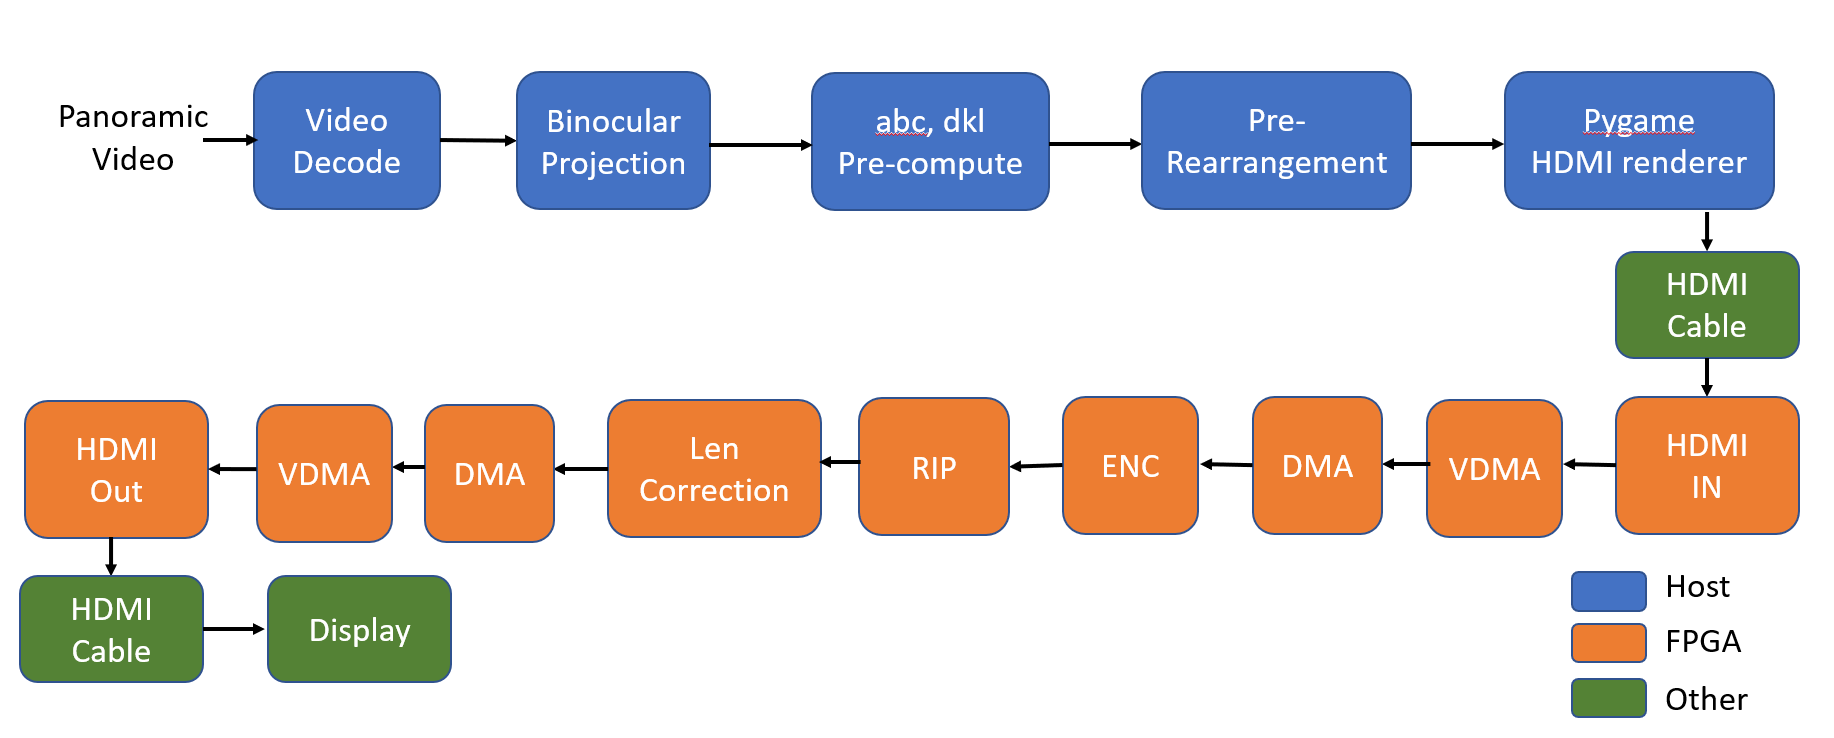
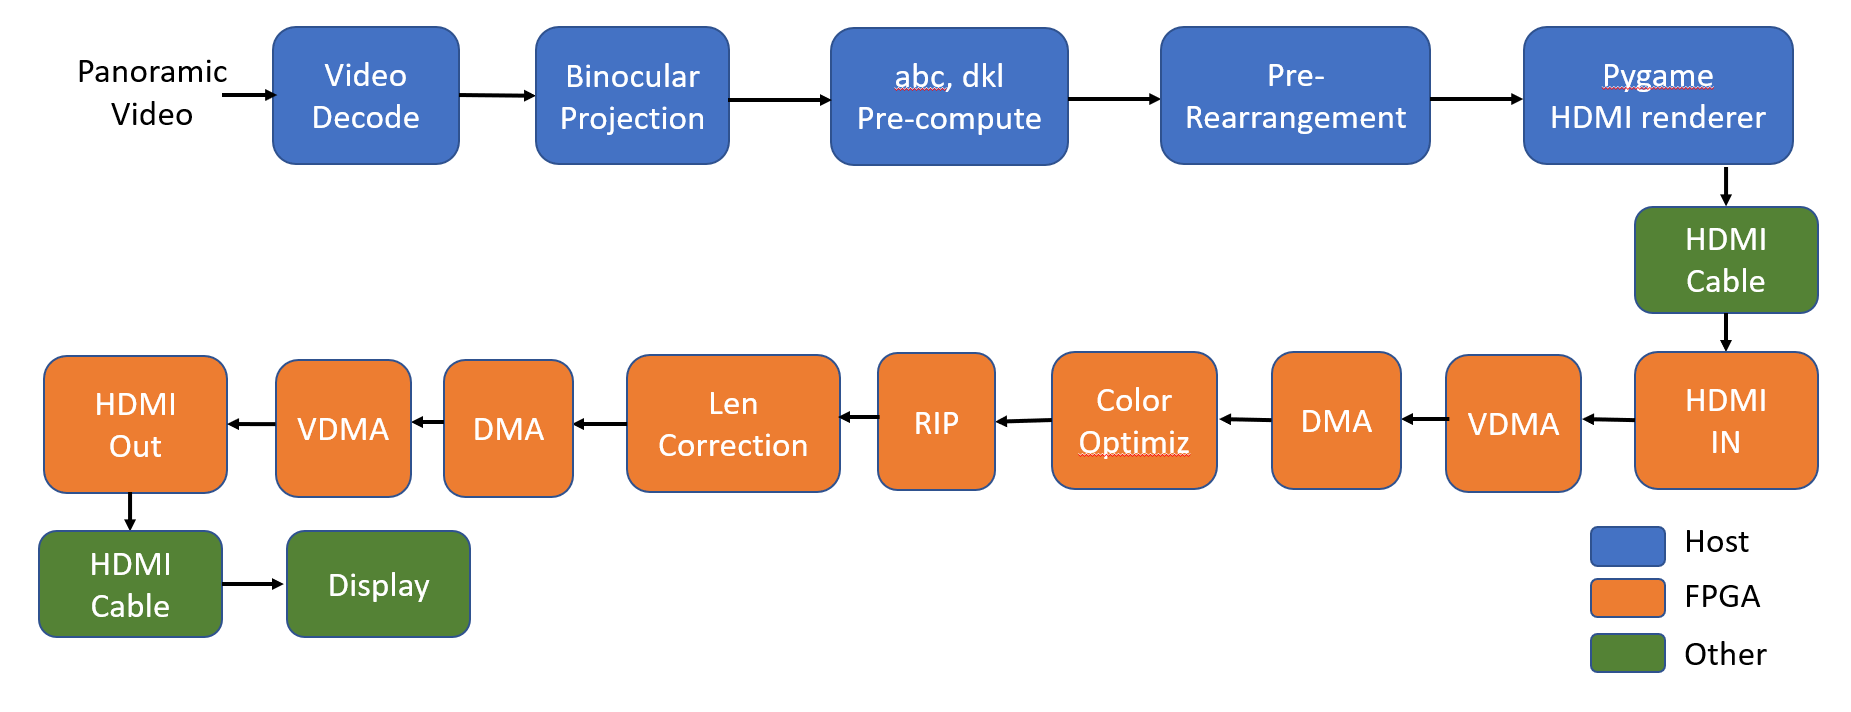
reorganize

Changed region(s): [[0.0, 0.0309, 0.9945, 0.9888]]

diff --git a/Readme.md b/Readme.md
@@ -6,7 +6,7 @@
 
 ### 1.1 Overall Pipeline
 
-&nbsp; &nbsp; The figure illustrates the project's comprehensive pipeline, transforming panoramic video into the foveated compressed video compatible with Google Cardboard. The pipeline is divided into two main module groups: one operating on the host machine and the other on an FPGA. The host machine handles video decoding, projection, parameter precomputation, and rearrangement. In contrast, the FPGA accelerates color adjustment and lens correction. These two platforms are interconnected via an HDMI cable. The final output is rendered on the VR display for immersive viewing.
+&nbsp; &nbsp; The figure illustrates the project's comprehensive pipeline, transforming panoramic video into the foveated compressed (Color Optimiz) video compatible with Google Cardboard. The pipeline is divided into two main module groups: one operating on the host machine and the other on an FPGA. The host machine handles video decoding, projection, parameter precomputation, and rearrangement. In contrast, the FPGA accelerates color adjustment and lens correction. These two platforms are interconnected via an HDMI cable. The final output is rendered on the VR display for immersive viewing.
 
 <img src="images/pipeline.png" alt="Alt text" width="800"/>
 
@@ -15,8 +15,16 @@
 
 ## 2. Files Organization
 
-- `fpga/`: Codes related to modules in FPGA.
-- `host/`: Codes related to modules in Host.
+- `host/`: Codes for the Host Machine.
+    - `video_decode/`: codes for video decode.
+    - `binocular_projection/`: codes for eqirectangular to binocular images projection.
+    - `fpga_input_generation/`: codes for abc, dkl computaton and reaarangement.
+    - `pygame/`: codes for sending image contains parameters through HDMI.
+    - `full_pipeline_in_software/`: codes to run the full pipeline in software. Convenient for expected results observation and parameter configuration.
+
+- `fpga/`:  Codes for FPGA.
+    - `tile_color_optimizer_hls/`: HLS implementation of color optimizer.
+    - `len_correction_hls/`: HLS implementation of color optimizer.
 
 ## 3. Usage
 
